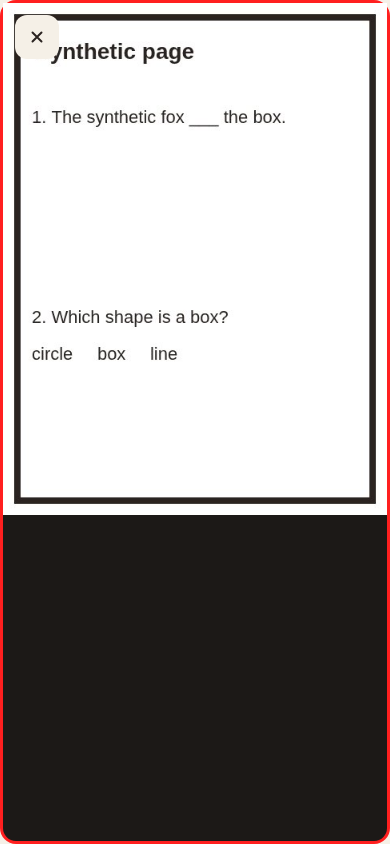
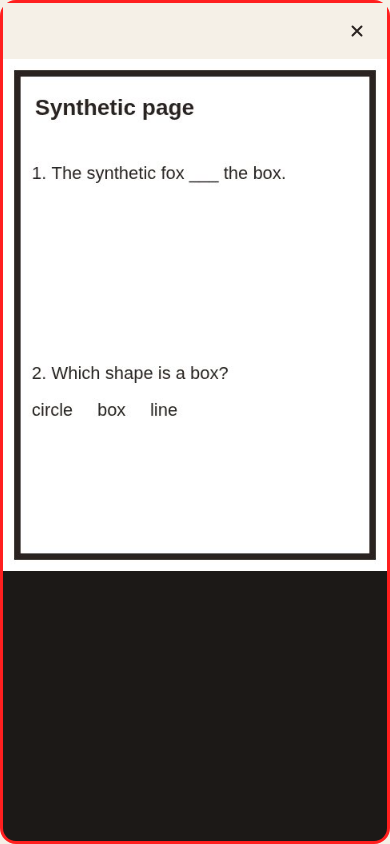
fix: keep the page title clear and show a real Almost
The close control sits in a bar above the sheet. Almost is a rewrite one
tile out of place, and the wrong sheet prints the right answer in bold ink.

diff --git a/src/styles/app.css b/src/styles/app.css
@@ -2479,6 +2479,13 @@ body.calm-motion *, body.calm-motion *::before, body.calm-motion *::after { anim
   background: #EE4848;
   box-shadow: 0 4px 0 #C93A3A;
 }
+.lesson--scan .lesson__sheet-answer {
+  margin: 0;
+  color: #2A2320;
+  font-weight: 900;
+  font-size: 1.25rem;
+  line-height: 1.3;
+}
 .lesson--scan .lesson__check:not(:disabled) {
   background: #6FBF5E;
   color: #fff;
@@ -2557,23 +2564,31 @@ body.calm-motion *, body.calm-motion *::before, body.calm-motion *::after { anim
   z-index: 50;
   background: #1c1917;
   touch-action: none;
+  display: flex;
+  flex-direction: column;
+}
+.page-viewer__bar {
+  flex: none;
+  display: flex;
+  justify-content: flex-end;
+  align-items: center;
+  height: 56px;
+  padding: 0 8px;
+  background: #F5F0E7;
 }
 .page-viewer__close {
-  position: absolute;
-  top: 12px;
-  left: 12px;
-  z-index: 2;
   width: 44px;
   height: 44px;
   border-radius: 12px;
-  background: #F5F0E7;
+  background: transparent;
   display: grid;
   place-items: center;
 }
 .page-viewer__close svg { width: 18px; height: 18px; stroke: #2A2320; stroke-width: 2.6; stroke-linecap: round; }
 .page-viewer__stage {
+  flex: 1;
+  min-height: 0;
   width: 100%;
-  height: 100%;
   overflow: hidden;
   touch-action: none;
   cursor: grab;

diff --git a/src/components/PageViewer.tsx b/src/components/PageViewer.tsx
@@ -70,11 +70,13 @@ export default function PageViewer({ pages, onClose, mark = false }: PageViewerP
 
   return (
     <div className={`page-viewer${mark ? ' scan-shot-mark' : ''}`} role="dialog" aria-label="Straightened page">
-      <button type="button" className="page-viewer__close" onClick={onClose} aria-label="Close page">
-        <svg viewBox="0 0 24 24" fill="none" aria-hidden="true">
-          <path d="M6 6l12 12M18 6L6 18" />
-        </svg>
-      </button>
+      <div className="page-viewer__bar">
+        <button type="button" className="page-viewer__close" onClick={onClose} aria-label="Close page">
+          <svg viewBox="0 0 24 24" fill="none" aria-hidden="true">
+            <path d="M6 6l12 12M18 6L6 18" />
+          </svg>
+        </button>
+      </div>
       <div
         className="page-viewer__stage"
         onPointerDown={onPointerDown}

diff --git a/src/screens/ScanQuizScreen.tsx b/src/screens/ScanQuizScreen.tsx
@@ -312,7 +312,11 @@ export default function ScanQuizScreen({ parts, onExit, onComplete, markAnswers 
               <span className="lesson__sheet-check" aria-hidden="true">{grade === 'correct' ? '✓' : '!'}</span>
               <h2 className="lesson__sheet-title">{sheetTitle}</h2>
             </div>
-            <p className="lesson__sheet-body">{sheetBody}</p>
+            {grade === 'wrong' ? (
+              <p className="lesson__sheet-answer">{sheetBody}</p>
+            ) : (
+              <p className="lesson__sheet-body">{sheetBody}</p>
+            )}
             <button
               type="button"
               className={`lesson__sheet-cta lesson__sheet-cta--${grade === 'correct' ? 'green' : 'red'}`}
